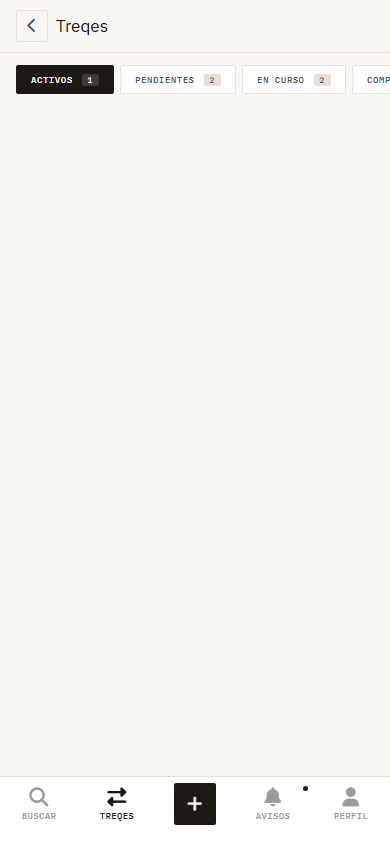
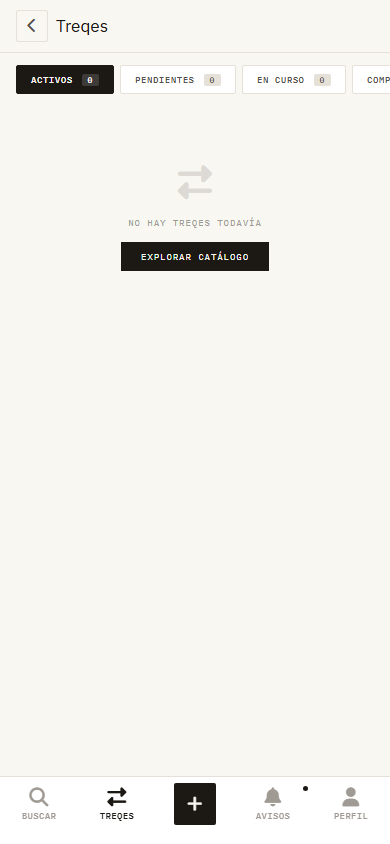
fix: v12-treqes empty state works, no-auth CTA consistent with perfil

Changed region(s): [[0.3077, 0.1848, 0.7077, 0.3389]]

diff --git a/apps/web/src/pages/matches/MatchesPage.tsx b/apps/web/src/pages/matches/MatchesPage.tsx
@@ -40,8 +40,8 @@ export function MatchesPage() {
       b = b.replace(/<script[\s\S]*?<\/script>/g, "");
       b = b.replace(/\s+on\w+="[^"]*"/g, "");
       b = b.replace(/src="\.\.\/\.\.\/assets\/treqe-logo-mib\.png"/g, 'src="/treqe-logo.png"');
-      // Remove hardcoded MIB cards — we'll inject real ones
-      b = b.replace(/<!-- ===== ACTIVES[\s\S]*?(?=<!-- ===== BOTTOM)/, "<!-- matches-go-here -->\n");
+      // Remove hardcoded MIB cards — keep an empty section container
+      b = b.replace(/<!-- ===== ACTIVES[\s\S]*?(?=<!-- ===== BOTTOM)/, '<div class="match-section" id="matches-container"></div>\n');
       // Dark toggle
       b = b.replace(/(<button class="dm-toggle")>Dark<\/button>/, '$1 onclick="document.body.classList.toggle(&quot;dark&quot;);localStorage.setItem(&quot;treqe-darkmode&quot;,document.body.classList.contains(&quot;dark&quot;))">Dark</button>');
       setHtml(s + b);
@@ -63,16 +63,15 @@ export function MatchesPage() {
   useEffect(() => {
     if (!html) return;
     const check = () => {
-      const placeholder = document.getElementById("matches-container") || document.querySelector(".match-section");
-      if (!placeholder && matches.length === 0) return;
-      if (!placeholder) { setTimeout(check, 300); return; }
+      const container = document.getElementById("matches-container");
+      if (!container) { setTimeout(check, 300); return; }
       const active = matches.filter(m => m.status === "active");
       const pending = matches.filter(m => m.status === "pending");
       const inProgress = matches.filter(m => m.status === "in_progress");
       const completed = matches.filter(m => m.status === "completed");
       updateCounts(active.length, pending.length, inProgress.length, completed.length);
-      renderTab(active.length + pending.length + inProgress.length + completed.length === 0);
-      renderMatches(tab === "active" ? active : tab === "pending" ? pending : tab === "in_progress" ? inProgress : completed);
+      const list = tab === "active" ? active : tab === "pending" ? pending : tab === "in_progress" ? inProgress : completed;
+      renderTab(list);
     };
     check();
   }, [html, matches, tab]);
@@ -116,26 +115,26 @@ export function MatchesPage() {
     if (counts[3]) counts[3].textContent = String(c);
   }
 
-  function renderTab(empty: boolean) {
-    const sections = document.querySelectorAll(".match-section");
-    sections.forEach(s => {
-      s.innerHTML = empty
-        ? `<div style="text-align:center;padding:60px 20px;font-family:var(--font-mono);font-size:.55rem;color:var(--text-dim);text-transform:uppercase;letter-spacing:.08em">
-            <i class="fas fa-exchange-alt" style="font-size:2rem;display:block;margin-bottom:16px;opacity:.3"></i>
-            No hay treqes todav\u00EDa<br><br>
-            <button onclick="window.location.href='/catalogo'" style="font-family:var(--font-mono);font-size:.55rem;padding:8px 20px;background:var(--text);color:var(--bg);border:none;cursor:pointer;letter-spacing:.08em;text-transform:uppercase">Explorar cat\u00E1logo</button>
-          </div>`
-        : "";
-    });
+  function renderTab(list: Match[]) {
+    const container = document.getElementById("matches-container");
+    if (!container) return;
+    if (!list.length) {
+      container.innerHTML = `<div style="text-align:center;padding:60px 20px;font-family:var(--font-mono);font-size:.55rem;color:var(--text-dim);text-transform:uppercase;letter-spacing:.08em">
+        <i class="fas fa-exchange-alt" style="font-size:2rem;display:block;margin-bottom:16px;opacity:.3"></i>
+        No hay treqes todav\u00EDa<br><br>
+        <button onclick="window.location.href='/catalogo'" style="font-family:var(--font-mono);font-size:.55rem;padding:8px 20px;background:var(--text);color:var(--bg);border:none;cursor:pointer;letter-spacing:.08em;text-transform:uppercase">Explorar cat\u00E1logo</button>
+      </div>`;
+    } else {
+      renderMatches(list);
+    }
   }
 
   const EM = ["🎸","📱","🎮","📷","⌚","🎧","🚲","💻","📚","🎯","🖥️","🎹"];
 
   function renderMatches(list: Match[]) {
-    if (!list.length) return;
-    const section = document.querySelector(".match-section");
-    if (!section) return;
-    section.innerHTML = list.map(m => {
+    const container = document.getElementById("matches-container");
+    if (!container) return;
+    container.innerHTML = list.map(m => {
       const myEmoji = m.my_item?.emoji || EM[Math.abs(hash(m.my_item?.id || "0")) % EM.length];
       const otherEmoji = m.other_item?.emoji || EM[Math.abs(hash(m.other_item?.id || "1")) % EM.length];
       const status = m.status === "in_progress" ? "in_progress" : m.status;
@@ -180,13 +179,14 @@ export function MatchesPage() {
   // No auth
   if (!html) return <div style={{padding:60,textAlign:"center",fontFamily:"var(--font-sans)"}}>Cargando...</div>;
   if (!hasToken) {
-    return <div dangerouslySetInnerHTML={{__html: html.replace(/<!-- matches-go-here -->[\s\S]*?(?=<!-- ===== BOTTOM)/, `<div class="match-section" style="text-align:center;padding:60px 20px">
+    const ctaHtml = html.replace(/<div class="match-section" id="matches-container">[\s\S]*?(?=<!-- ===== BOTTOM)/, `<div class="match-section" style="text-align:center;padding:60px 20px">
       <div style="font-size:2rem;margin-bottom:12px;color:var(--text-dim)"><i class="fas fa-exchange-alt"></i></div>
       <h2 style="font-family:var(--font-sans);font-size:1.1rem;font-weight:500;color:var(--text);margin-bottom:8px">Tus treqes te esperan</h2>
       <p style="font-family:var(--font-mono);font-size:.55rem;color:var(--text-dim);margin-bottom:24px;text-transform:uppercase;letter-spacing:.08em">Inicia sesi\u00F3n para ver tus intercambios</p>
       <button onclick="window.location.href='/login'" style="font-family:var(--font-mono);font-size:.6rem;font-weight:500;padding:10px 28px;background:var(--text);color:var(--bg);border:none;cursor:pointer;letter-spacing:.1em;text-transform:uppercase">Iniciar sesi\u00F3n</button>
       <button onclick="window.location.href='/registro'" style="display:block;margin:10px auto 0;background:none;border:1px solid var(--border);font-family:var(--font-mono);font-size:.55rem;color:var(--text-dim);cursor:pointer;padding:8px 20px;letter-spacing:.08em;text-transform:uppercase">Crear cuenta</button>
-    </div>`) }} />;
+    </div>`);
+    return <div dangerouslySetInnerHTML={{__html: ctaHtml}} />;
   }
 
   return <div dangerouslySetInnerHTML={{__html: html}} />;